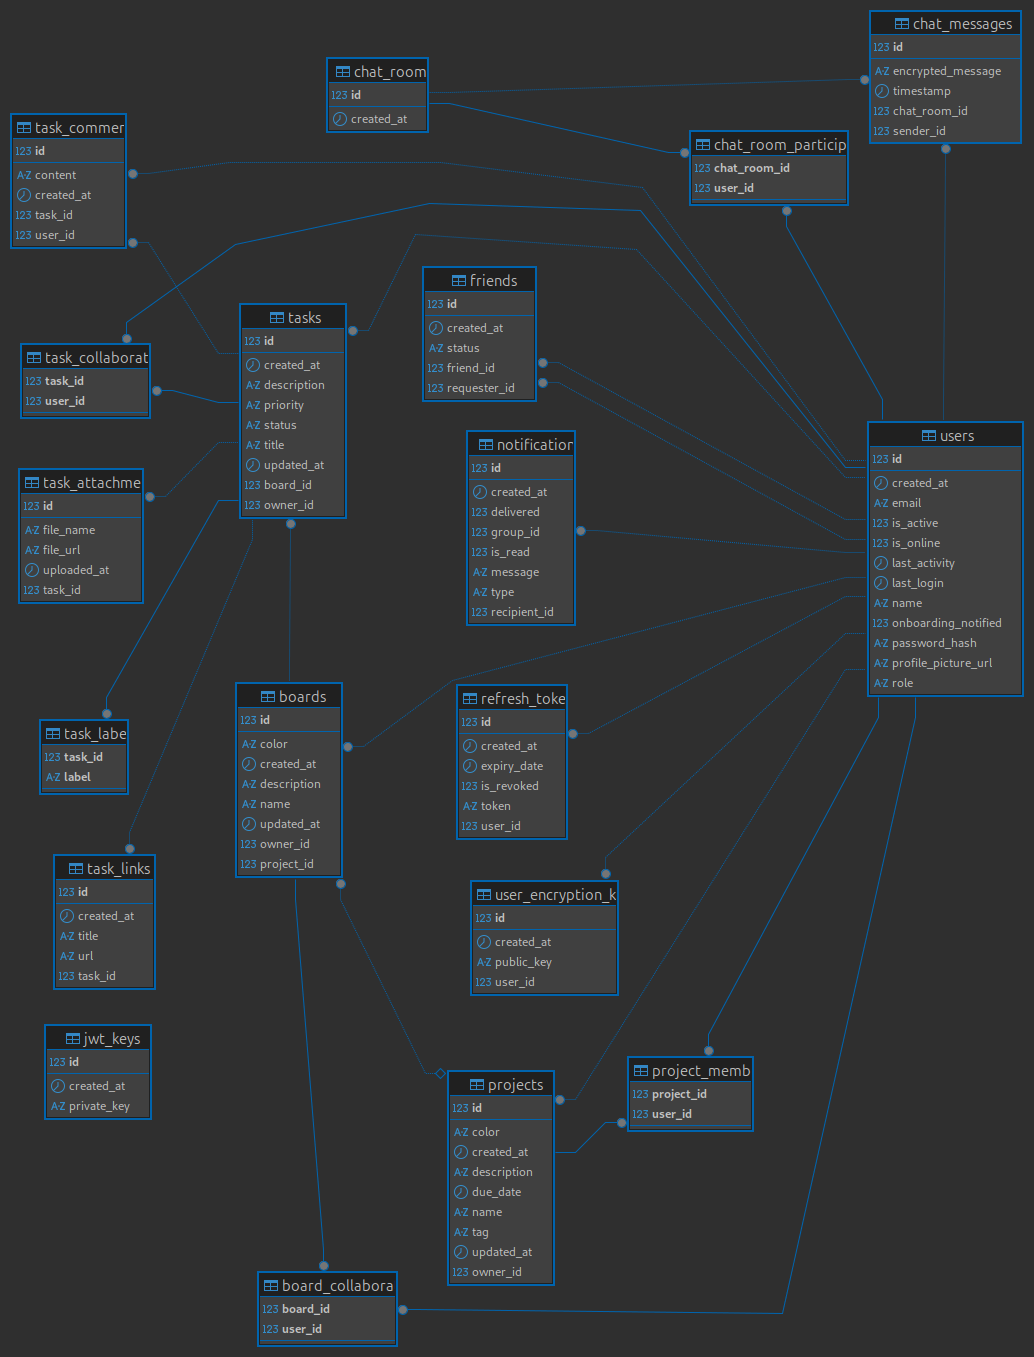
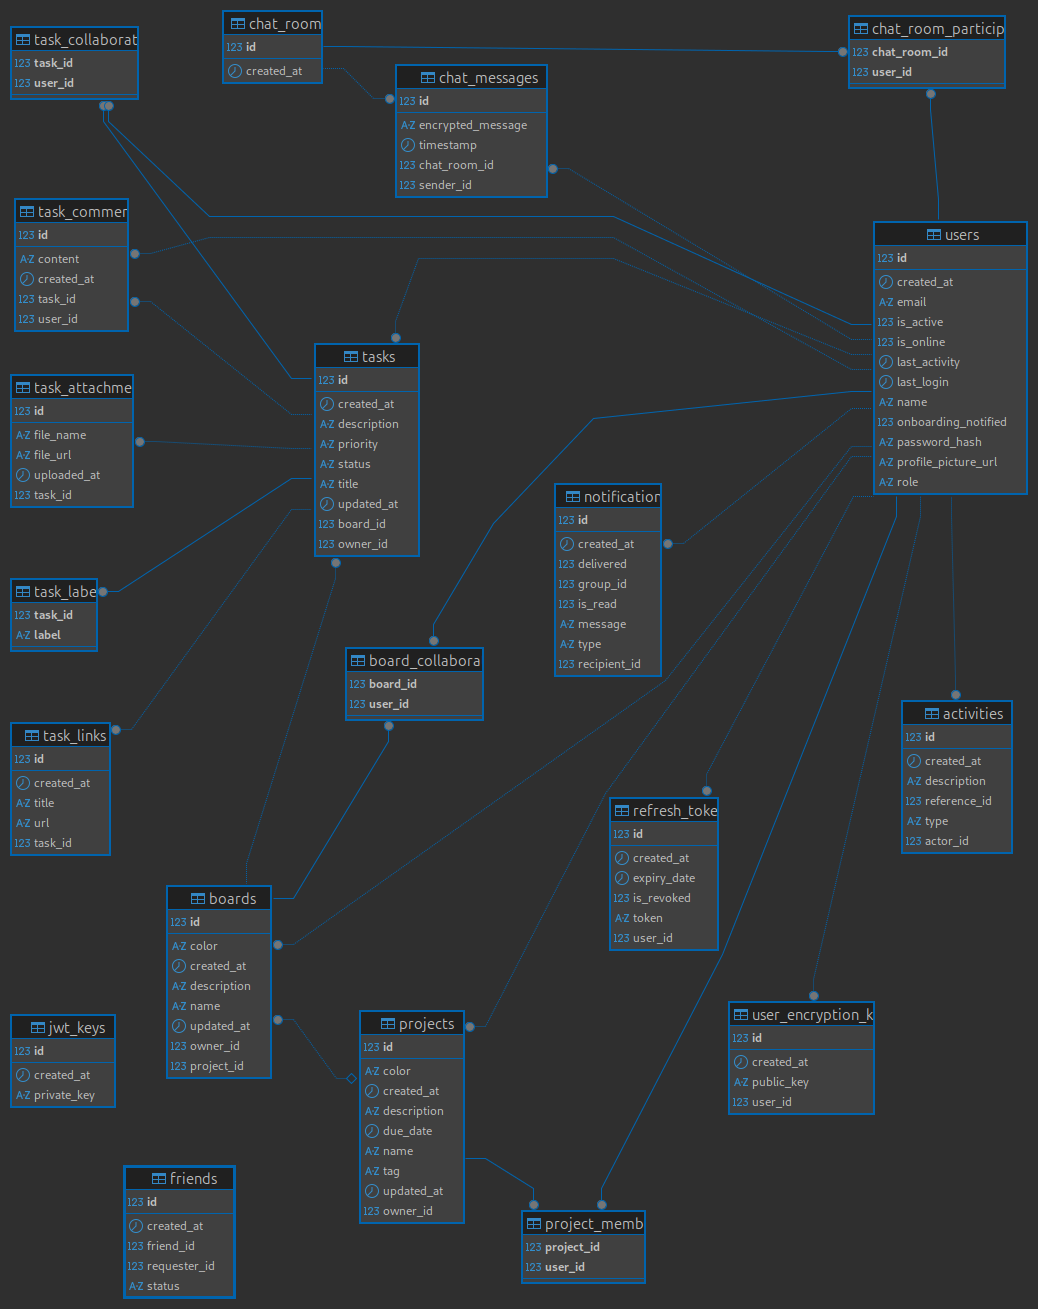
docs(database): align aggregates and relational model with current schema

diff --git a/docs/aggregates.md b/docs/aggregates.md
@@ -1,32 +1,42 @@
 # Aggregate Boundaries (DDD)
 
-This document describes the main aggregates in SynchTask and the responsibilities
-and consistency boundaries enforced by each Aggregate Root.
+This document reflects the current relational schema (`schema.sql` / MySQL dump)
+and describes aggregate boundaries used in SynchTask.
 
 ## User Aggregate
 **Aggregate Root:** `User`
 
+**Primary table:**
+- `users`
+
 **Owned entities / tables:**
 - `refresh_tokens`
 - `user_encryption_keys`
-- `jwt_keys` (infrastructure-backed persistence of signing keys)
-- `friends`
 - `notifications`
+- `friends`
+- `activities` (actor/audit trail)
 
 **Responsibilities:**
-- Identity and authentication lifecycle
-- Token management (issue / revoke)
-- User encryption key lifecycle
-- Social relationships and notifications
+- Identity lifecycle and account state (`is_active`, `is_online`, `last_login`)
+- Token lifecycle (refresh issue/revoke)
+- Personal cryptographic key publication
+- Friendship state machine (`PENDING`, `ACCEPTED`, `REJECTED`, `BLOCKED`)
+- Notification inbox and read/delivery status
+- User activity tracking for domain actions
 
 **Notes:**
-- Cross-aggregate reads are allowed at the service layer, but repositories must
-  remain aggregate-scoped.
+- `jwt_keys` is infrastructure/security persistence and is intentionally outside
+  a user-owned aggregate table (no `user_id` foreign key in schema).
+- Cross-aggregate reads are allowed at application service level; repository
+  access should remain aggregate-scoped.
 
 ---
 
 ## Board Aggregate
 **Aggregate Root:** `Board`
+
+**Primary table:**
+- `boards`
 
 **Owned entities / tables:**
 - `tasks`
@@ -38,42 +48,66 @@ and consistency boundaries enforced by each Aggregate Root.
 - `task_collaborators`
 
 **Responsibilities:**
-- Board ownership and access control
-- Task lifecycle within the board boundary
-- Collaboration rules within the board
+- Board ownership and collaboration management
+- Task lifecycle and status transitions within board scope
+- Task metadata (labels, links, attachments, comments)
+- Membership visibility through board/task collaborator join tables
 
 **Rules:**
-- Tasks are not treated as a standalone aggregate root.
-- Task mutations should be performed through the `Board` boundary (application layer).
+- Tasks are modeled as board-contained entities, not standalone aggregate roots.
+- Task mutations should be coordinated by board-level use-cases.
 
 ---
 
 ## Project Aggregate
 **Aggregate Root:** `Project`
 
-**Owned entities / tables:**
+**Primary table:**
 - `projects`
+
+**Owned entities / tables:**
 - `project_members`
 
+**References:**
+- `boards.project_id` links boards to projects
+
 **Responsibilities:**
-- Grouping boards under a project
-- Project membership and ownership
-- Organizational structure (not task ownership)
+- Project ownership and membership
+- Grouping/organization of boards
+- Planning metadata (`due_date`, `tag`, `color`)
 
 **Notes:**
-- A project may reference boards, but does not directly own tasks.
+- Project references boards, but board-owned entities (`tasks`, comments,
+  attachments, links, labels) remain inside the Board aggregate boundary.
 
 ---
 
 ## Chat Aggregate
 **Aggregate Root:** `ChatRoom`
 
-**Owned entities / tables:**
+**Primary table:**
 - `chat_rooms`
+
+**Owned entities / tables:**
 - `chat_room_participants`
 - `chat_messages`
 
 **Responsibilities:**
-- Room and participant management
-- Message persistence and retrieval
-- Domain isolation from Board/Task contexts
+- Room lifecycle
+- Participant membership
+- Message persistence (`encrypted_message`, timestamp ordering)
+
+**Notes:**
+- Chat remains isolated from Board/Task mutation workflows.
+
+---
+
+## Security Infrastructure Persistence
+
+These tables support security infrastructure concerns and are intentionally
+outside business aggregates:
+
+- `jwt_keys`
+
+This separation keeps domain aggregates focused while still documenting all
+schema artifacts.

diff --git a/docs/database.md b/docs/database.md
@@ -1,28 +1,89 @@
 # Database
 
-SynchTask uses a relational database (MySQL in local development) with schema
-generated via JPA/Hibernate mappings.
+SynchTask uses a relational database (MySQL in local development), with schema
+currently generated via JPA/Hibernate mappings.
 
-## Schema ownership
-- Tables are modeled according to aggregate boundaries.
-- Join tables enforce uniqueness for (entity_id, user_id) pairs where applicable.
+## Current schema snapshot
 
-## Constraints & integrity
-- Foreign keys are used to enforce relational integrity.
-- Unique constraints exist on join tables to prevent duplicated relationships.
+The current MySQL dump includes **20 tables**:
 
-## Indexing strategy (high-level)
-Indexes are defined to support the most common access patterns:
-- Users by email and activity
-- Boards by owner and creation date
-- Tasks by status and creation date
-- Notifications by recipient, read state, and creation date
-- Refresh tokens by expiry and revoke state
+- `activities`
+- `board_collaborators`
+- `boards`
+- `chat_messages`
+- `chat_room_participants`
+- `chat_rooms`
+- `friends`
+- `jwt_keys`
+- `notifications`
+- `project_members`
+- `projects`
+- `refresh_tokens`
+- `task_attachments`
+- `task_collaborators`
+- `task_comments`
+- `task_labels`
+- `task_links`
+- `tasks`
+- `user_encryption_keys`
+- `users`
 
-## Local inspection
-Recommended tools:
-- DBeaver for ER diagram visualization
-- `mysqldump --no-data` for schema export
+## Relational integrity
+
+Foreign keys enforce the most important consistency rules, including:
+
+- `boards.owner_id -> users.id`
+- `boards.project_id -> projects.id`
+- `tasks.board_id -> boards.id`
+- `tasks.owner_id -> users.id`
+- `notifications.recipient_id -> users.id`
+- `refresh_tokens.user_id -> users.id`
+- `chat_messages.chat_room_id -> chat_rooms.id`
+- `chat_messages.sender_id -> users.id`
+
+Join tables with composite primary keys guarantee uniqueness of memberships:
+
+- `board_collaborators (board_id, user_id)`
+- `project_members (project_id, user_id)`
+- `chat_room_participants (chat_room_id, user_id)`
+- `task_collaborators (task_id, user_id)`
+- `task_labels (task_id, label)`
+
+## Key uniqueness constraints
+
+- `users.email` unique (`idx_user_email`)
+- `refresh_tokens.token` unique
+- `friends (requester_id, friend_id)` unique
+- `user_encryption_keys.user_id` unique
+
+## Enum domains present in schema
+
+- `tasks.priority`: `LOW`, `MID`, `HIGH`
+- `tasks.status`: `TODO`, `IN_PROGRESS`, `REVIEW`, `BLOCKED`, `COMPLETED`
+- `friends.status`: `PENDING`, `ACCEPTED`, `REJECTED`, `BLOCKED`
+- `notifications.type`: `PERSONAL`, `SYSTEM`, `TASK_UPDATE`, `FRIEND_REQUEST`, `GROUP`, `INVITATION`, `CHAT_MESSAGE`
+- `users.role`: `USER`, `COLLABORATOR`, `OWNER`, `ADMIN`
+- `activities.type`: board/project/task activity event types
+
+## Indexing highlights
+
+Indexes are present for common query patterns, for example:
+
+- timeline queries by creation date:
+    - `idx_activity_created_at`, `idx_board_created_at`, `idx_project_created_at`, `idx_task_created_at`
+- actor/recipient filters:
+    - `idx_activity_actor`, `idx_notification_recipient_created`, `idx_notification_recipient_read`
+- task and friendship filtering:
+    - `idx_task_status`, `idx_friend_status`, `idx_friend_requester_status`, `idx_friend_friend_status`
+- token maintenance:
+    - `idx_refresh_expiry`, `idx_refresh_revoked`, `idx_refresh_user_revoked`
+
+## Operational notes for release
+
+- Current app config still uses `ddl-auto: create-drop` for local development,
+  which is fine for dev/test but should not be used in persistent production.
+- Keep the MySQL dump and ER diagram synchronized with each release candidate.
 
 ## ER Diagram
+
 See `docs/er-diagram.png`.
